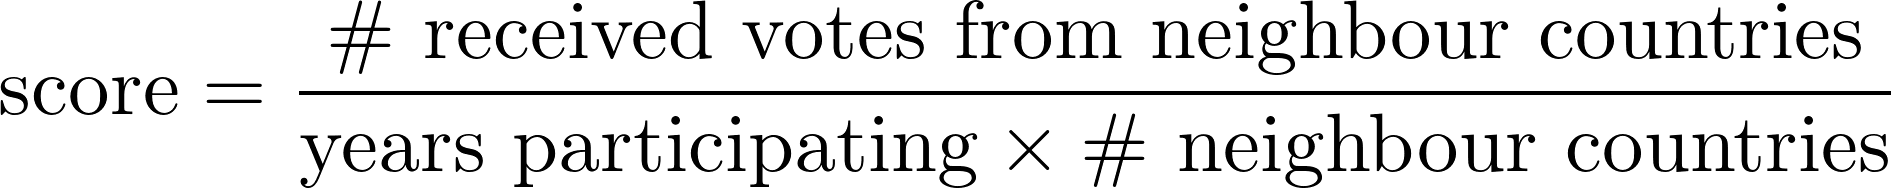
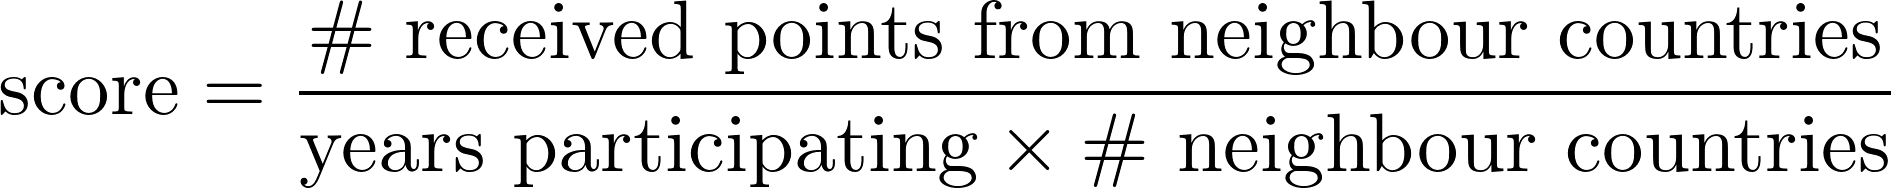
Use points as a metric instead

diff --git a/src/votes.js b/src/votes.js
@@ -24,11 +24,11 @@ exports.parseVotes = voteRows => {
     firstYears[countryCode] = year;
   }
 
-  function addVote(fromCode, toCode, year) {
+  function addVotes(fromCode, toCode, points, year) {
     const count = getVoteCount(fromCode, toCode);
 
     // Increment from->to vote count
-    countries[fromCode][toCode] = count + 1;
+    countries[fromCode][toCode] = count + points;
 
     updateFirstYear(fromCode, year);
     updateFirstYear(toCode, year);
@@ -49,8 +49,9 @@ exports.parseVotes = voteRows => {
     }
 
     const year = parseInt(row[0]);
+    const points = parseInt(row[6]);
 
-    addVote(fromCode, toCode, year);
+    addVotes(fromCode, toCode, points, year);
   });
 
   return { countries, firstYears };

diff --git a/src/createData.js b/src/createData.js
@@ -1,4 +1,3 @@
-const fs = require('fs');
 const path = require('path');
 
 const parseCsvFile = require('./csvParser');
